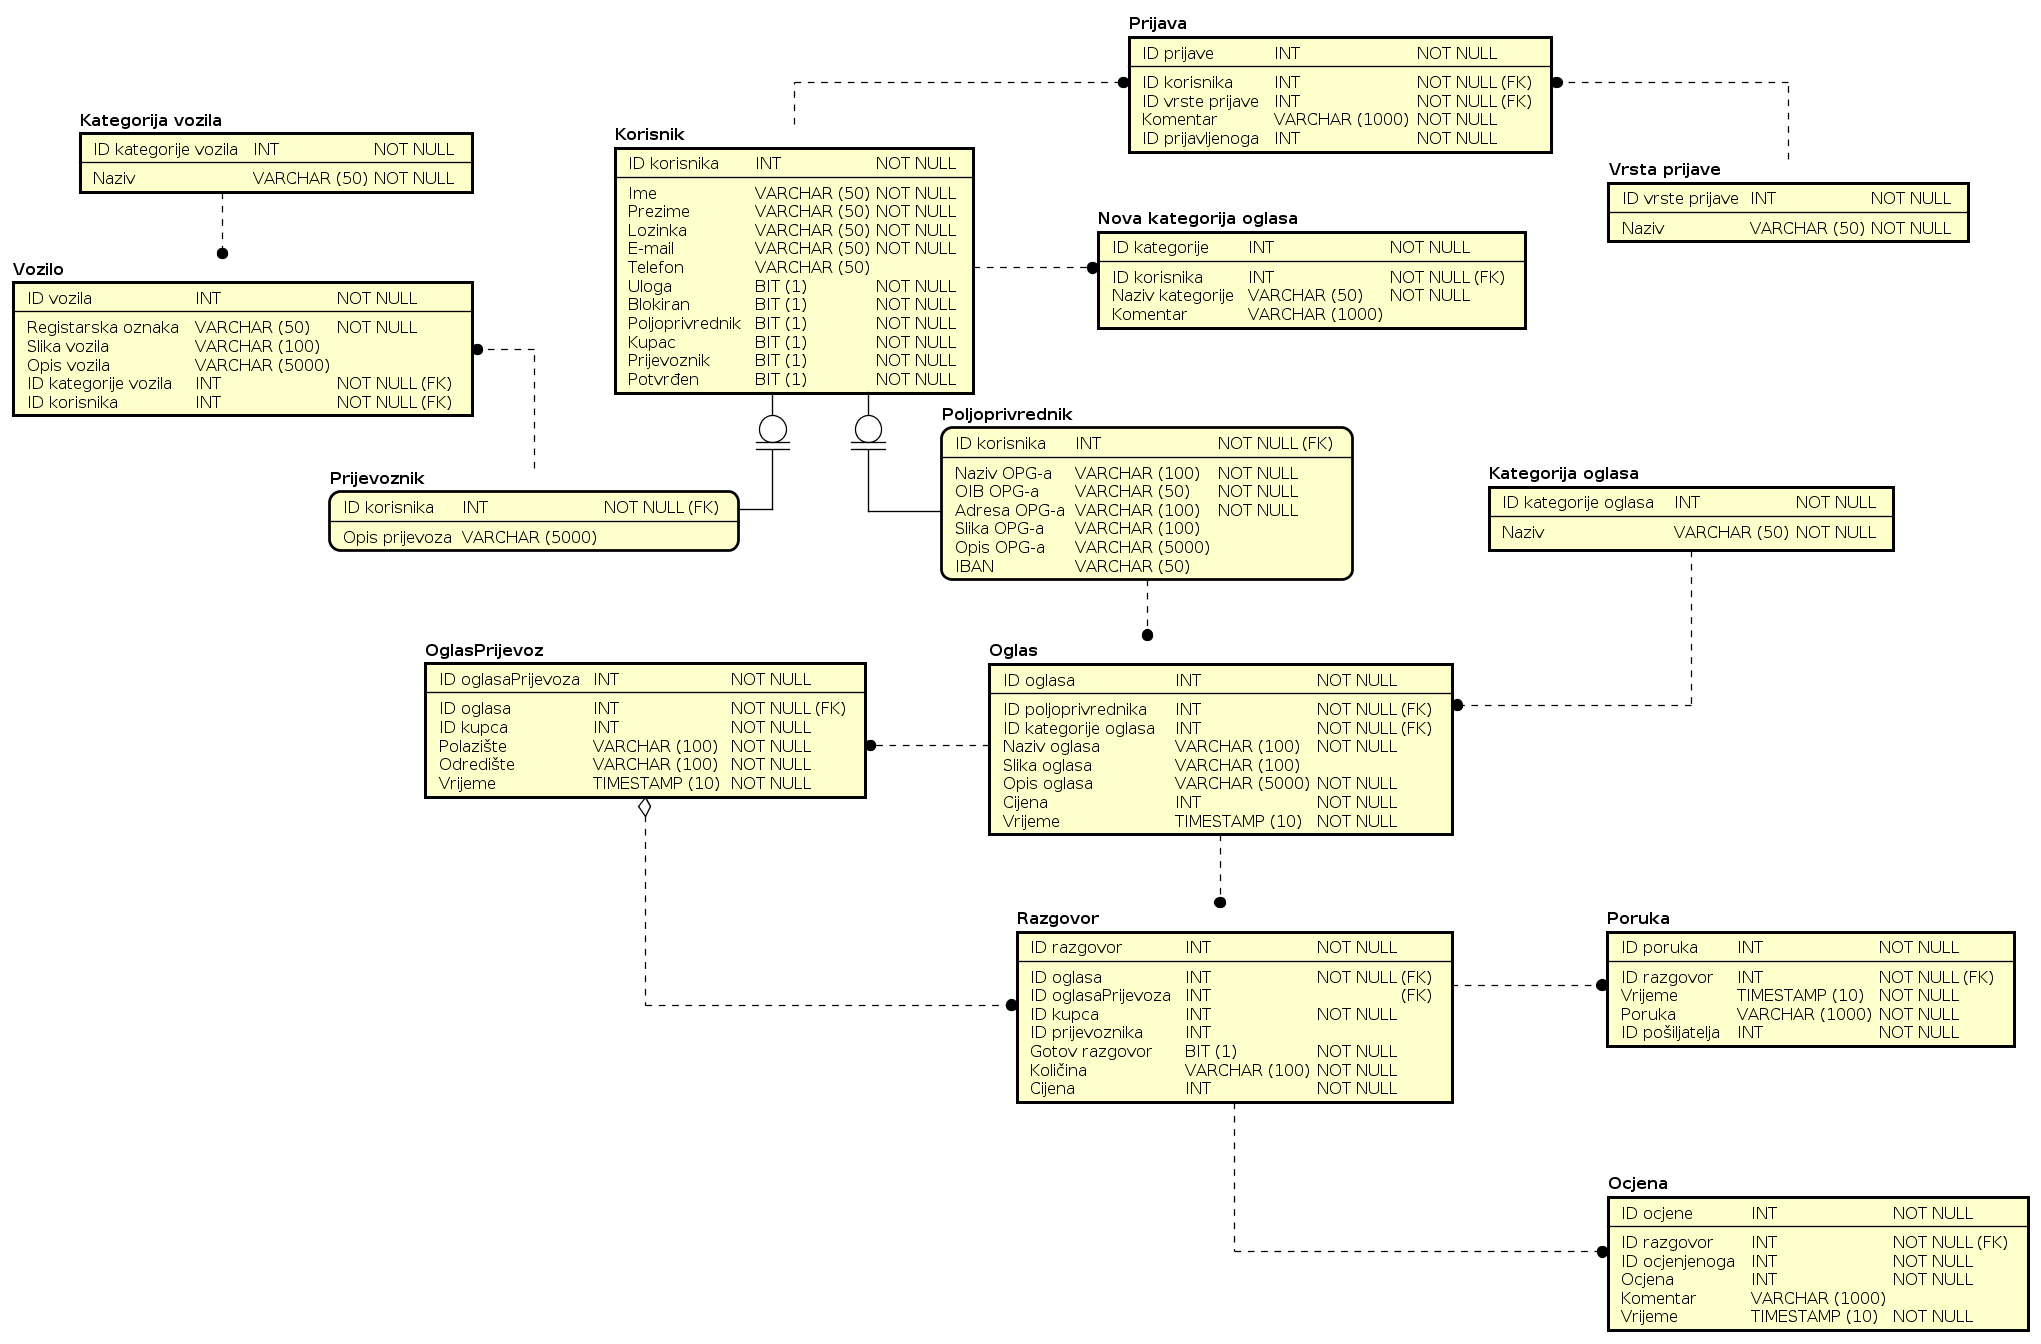
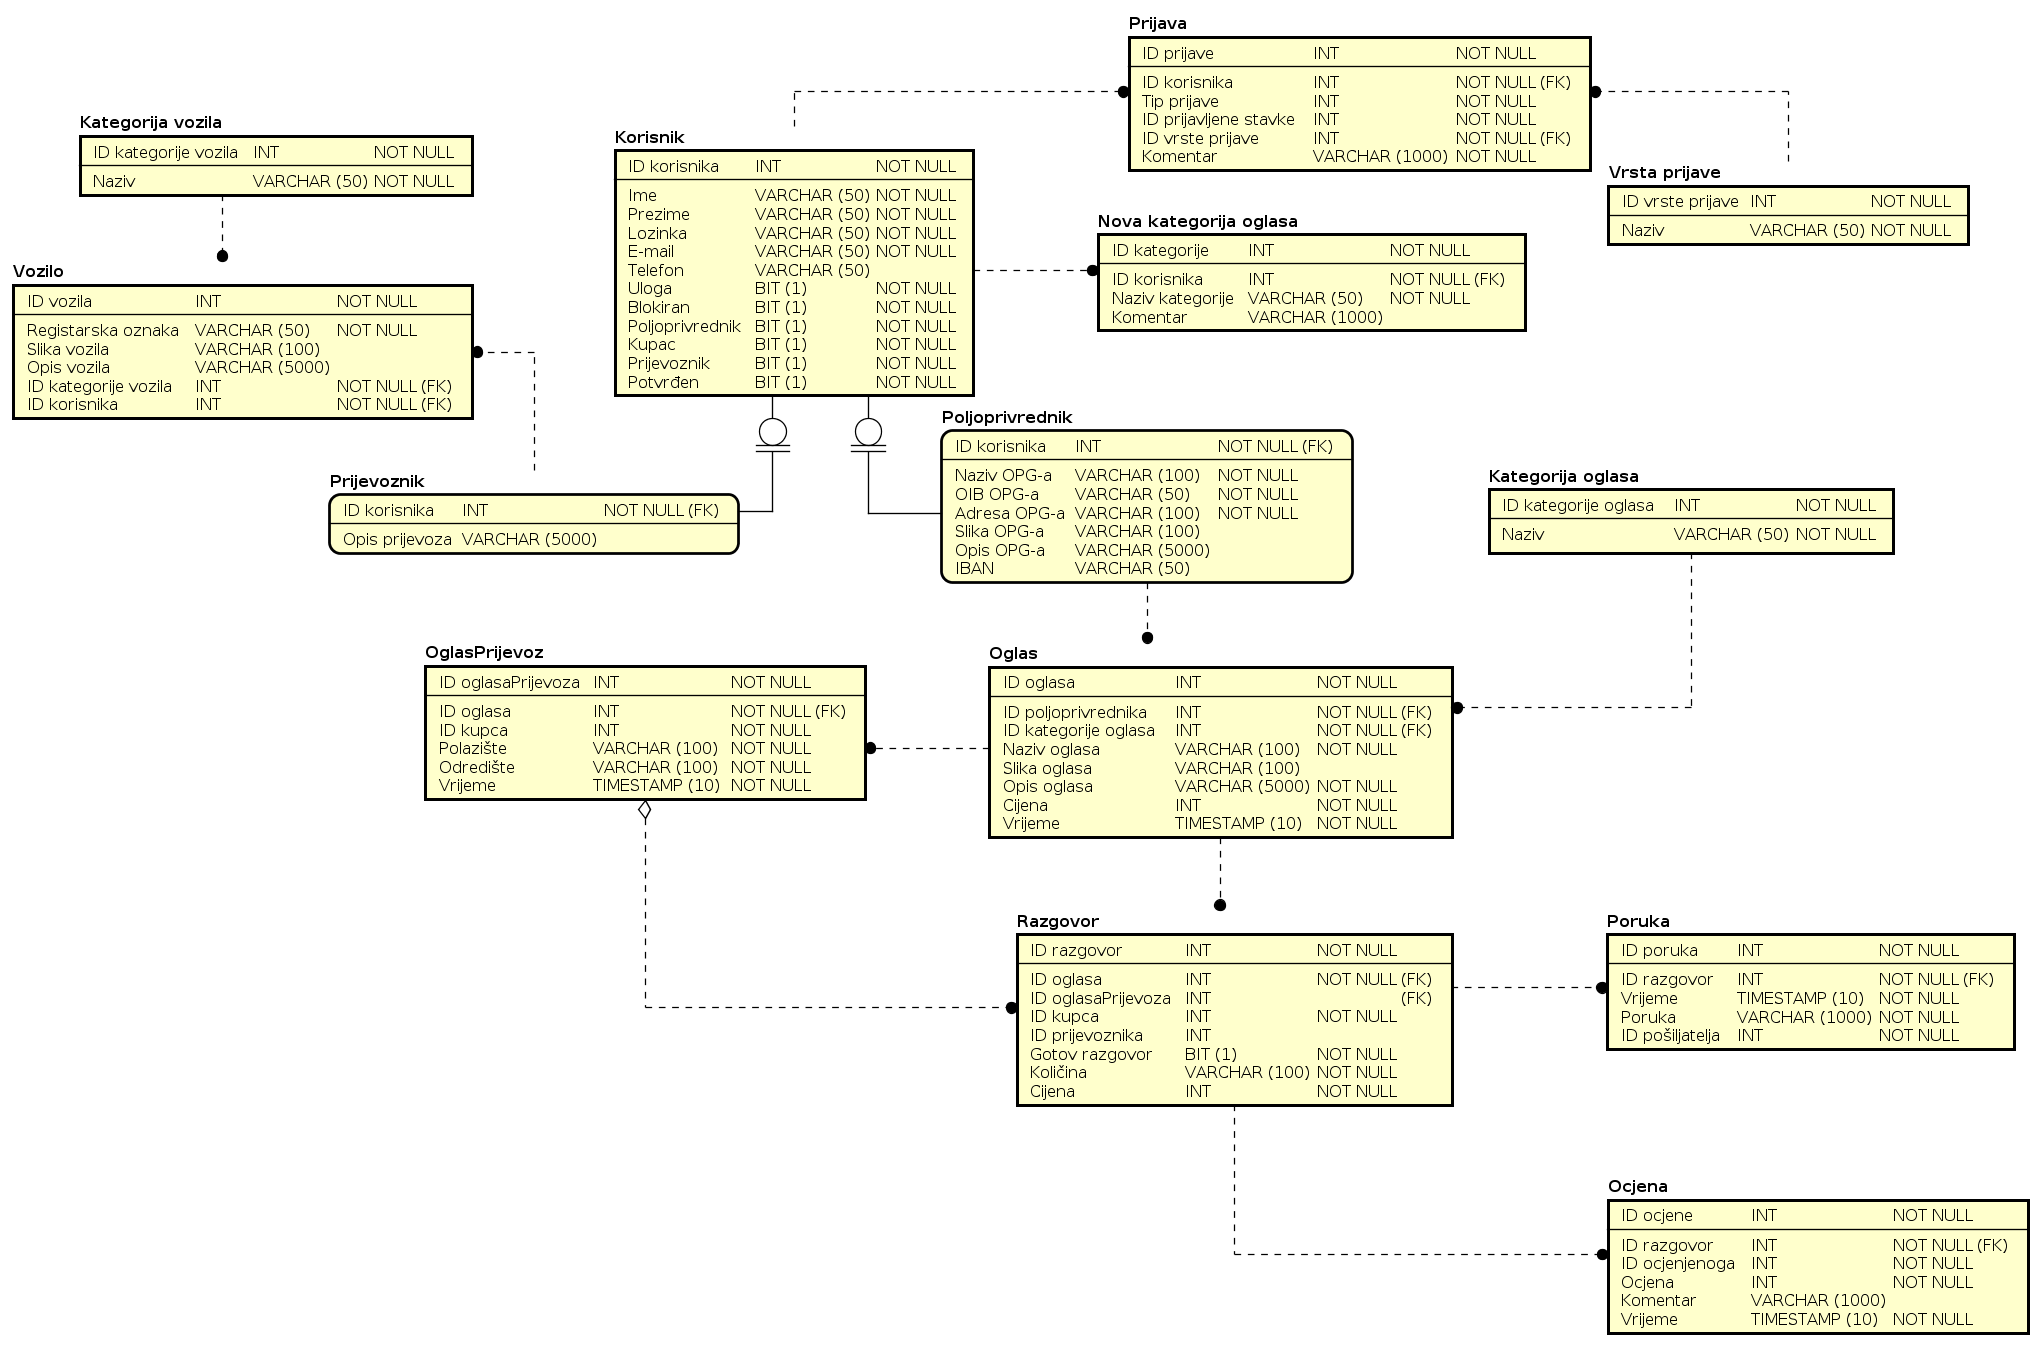
CreateReport gotov

diff --git a/Server/src/main/java/serverCommands/CreateReport.java b/Server/src/main/java/serverCommands/CreateReport.java
@@ -1,0 +1,51 @@
+package serverCommands;
+
+import java.sql.Connection;
+import java.sql.ResultSet;
+import java.sql.SQLException;
+import java.sql.Statement;
+
+import org.json.JSONObject;
+
+import serverShell.AbstractCommand;
+import serverShell.CommandStatus;
+import serverShell.Environment;
+
+public class CreateReport extends AbstractCommand {
+	
+	String[] columns = new String[] {"idKorisnika", "tipPrijave", "idPrijavljeneStavke", "idVrstePrijave", "komentar"};
+
+	public CreateReport() {
+		super("CREATEREPORT", "Creates a report.");
+	}
+
+	@Override
+	public CommandStatus execute(Environment environment, JSONObject arguments) {
+		Connection connection = environment.getDatabase();
+		JSONObject returnObject = new JSONObject();
+		try {						
+			Statement statement = connection.createStatement();
+			
+			StringBuilder sql = new StringBuilder();
+			sql.append("INSERT INTO prijava VALUES (default,");
+			for(int i = 0; i < columns.length; ++i) {
+				sql.append("'" + arguments.get(columns[i]) + "',");
+			}
+			sql.deleteCharAt(sql.length()-1);
+			sql.append(");");
+			
+			statement.executeUpdate(sql.toString());
+			
+			ResultSet id = statement.executeQuery("SELECT MAX(id) AS id FROM prijava;");
+			id.next();
+			returnObject.put("idPrijave", id.getString("id"));
+			environment.sendText(returnObject.toString());
+		} catch (SQLException e) {
+			returnObject.put("success", false);
+			environment.sendText(returnObject.toString());
+		}
+		
+		return CommandStatus.CONTINUE;	
+	}
+
+}

diff --git a/Server/src/main/java/serverShell/Server.java b/Server/src/main/java/serverShell/Server.java
@@ -14,6 +14,7 @@ import serverCommands.CreateConversation;
 import serverCommands.CreateFarmer;
 import serverCommands.CreateProduct;
 import serverCommands.CreateProductCategory;
+import serverCommands.CreateReport;
 import serverCommands.DeleteComment;
 import serverCommands.DeleteUser;
 import serverCommands.EditComment;
@@ -47,7 +48,8 @@ private static HashMap<String, ShellCommand> commands;
 						new EditComment(),
 						new DeleteComment(),
 						new SendMessage(),
-						new RetrieveMessages()
+						new RetrieveMessages(),
+						new CreateReport()
 		};
 		
 		for (ShellCommand shellCommand : cc) {
